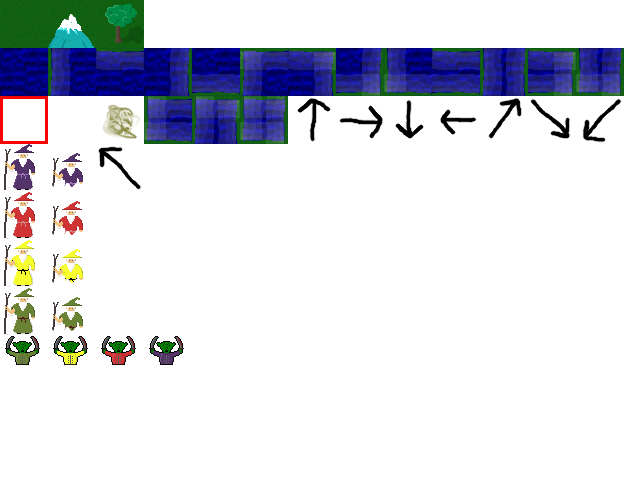
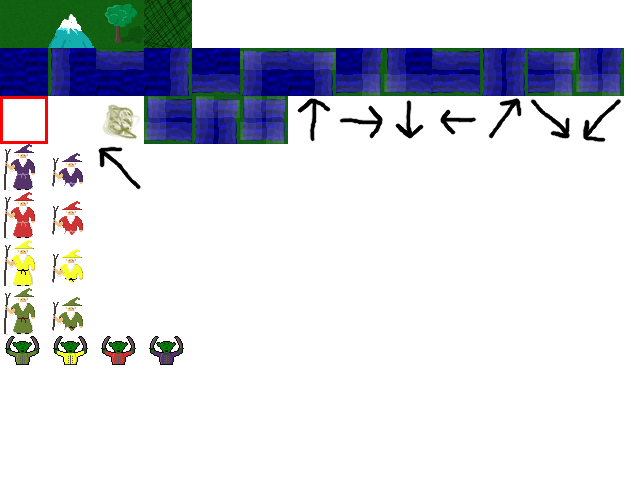
Even more badassness for the epic blast

Changed region(s): [[0.2188, 0.0, 0.3125, 0.125]]

diff --git a/game_window.py b/game_window.py
@@ -215,17 +215,8 @@ class Tiles(ui.RootElement):
                         
 
         #Fill in the fixed vertices for the tiles
-        index = 0
-        for col in self.map:
-            for tile_data in col:
-                world = WorldCoords(tile_data.pos)
-                #world.y -= (gamedata.tile_dimensions.y/2)
-                #world.y += self.height*gamedata.tile_dimensions.y/2 #make sure it's all above zero
-                tex_coords=self.tex_coords[tile_data.name]
-                temp_quad = utils.Quad(gamedata.quad_buffer,tc = tex_coords,index = index)
-                index += 4
-                temp_quad.SetVertices(world,world + gamedata.tile_dimensions,0)
-                
+        self.tile_quads = []           
+        self.SetMapVertices()                
 
         self.text = ui.TextBox(parent = gamedata.screen_root,
                                bl     = Point(0.001,0.001)  ,
@@ -237,6 +228,28 @@ class Tiles(ui.RootElement):
         self.selected_quad = utils.Quad(gamedata.quad_buffer,tc = self.tex_coords['selected'])
         #self.highlights    = TileHighlights(100)
         
+    def SetMapVertices(self):
+        index = 0
+        if len(self.tile_quads) == 0:
+            filling = True
+        else:
+            filling = False
+        pos = 0
+        for col in self.map:
+            for tile_data in col:
+                world = WorldCoords(tile_data.pos)
+                #world.y -= (gamedata.tile_dimensions.y/2)
+                #world.y += self.height*gamedata.tile_dimensions.y/2 #make sure it's all above zero
+                tex_coords=self.tex_coords[tile_data.name]
+                if filling:
+                    temp_quad = utils.Quad(gamedata.quad_buffer,index = index)
+                    self.tile_quads.append(temp_quad)
+                else:
+                    temp_quad = self.tile_quads[pos]
+                    pos += 1
+                index += 4
+                temp_quad.SetVertices(world,world + gamedata.tile_dimensions,0)
+                temp_quad.SetTextureCoordinates(tex_coords)
 
     def ValidViewpos(self,viewpos):
         #viewpos = list(viewpos)

diff --git a/action.py b/action.py
@@ -324,7 +324,7 @@ class BlastAction(Action):
                 self.actor.AdjustActionPoints(-self.cost)
                 self.firing = True
                 self.path = utils.Brensenham(self.start_pos,self.end_pos,self.actor.tiles.width)[1:]
-                self.visited = {}
+                self.visited = {self.start_pos:True}
                 self.quad.Enable()
             else:
                 #we're not going to do it so we're already finished
@@ -342,9 +342,10 @@ class BlastAction(Action):
             elif t >= self.start_time:
                 part = float(t-self.start_time)/self.duration
                 pos = self.start_pos + self.vector*part
-                for d in Point(0,0),Point(0,1),Point(1,0),Point(1,1):
+                for d in Point(0,0),Point(0,0.8),Point(0.8,0),Point(0.8,0.8):
                     p = (pos + d).to_int()
-                    if p in self.path and p not in self.visited:
+                    #if p in self.path and p not in self.visited:
+                    if p not in self.visited:
                         self.visited[p] = True
                         self.VisitTile(p)
                     
@@ -480,6 +481,10 @@ class EpicWizardBlastAction(WizardBlastAction):
     def VisitTile(self,pos):
         """Do damage to each tile we go through as we're epic"""
         target_tile = self.actor.tiles.GetTile(pos)
+        if target_tile.name in ('grass','mountain','tree'):
+            target_tile.name = 'scorched'
+            target_tile.movement_cost = 1
+            self.actor.tiles.SetMapVertices()
         target = target_tile.GetActor()
         if target:
             target.Damage(int(self.total_damage*0.1))

diff --git a/utils.py b/utils.py
@@ -128,6 +128,9 @@ class Quad(object):
             for i in xrange(4):
                 current[i] = target[i]
 
+    def SetTextureCoordinates(self,tc):
+        self.tc[0:4] = tc
+
 def setvertices(vertex,bl,tr,z):
     vertex[0] = (bl.x,bl.y,z)
     vertex[1] = (bl.x,tr.y,z)
